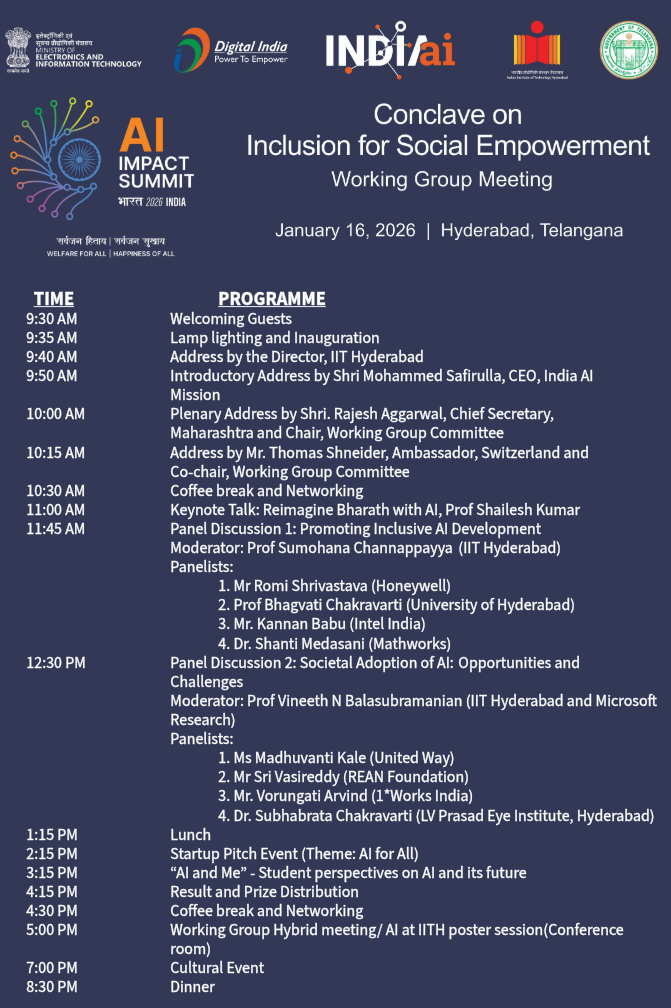
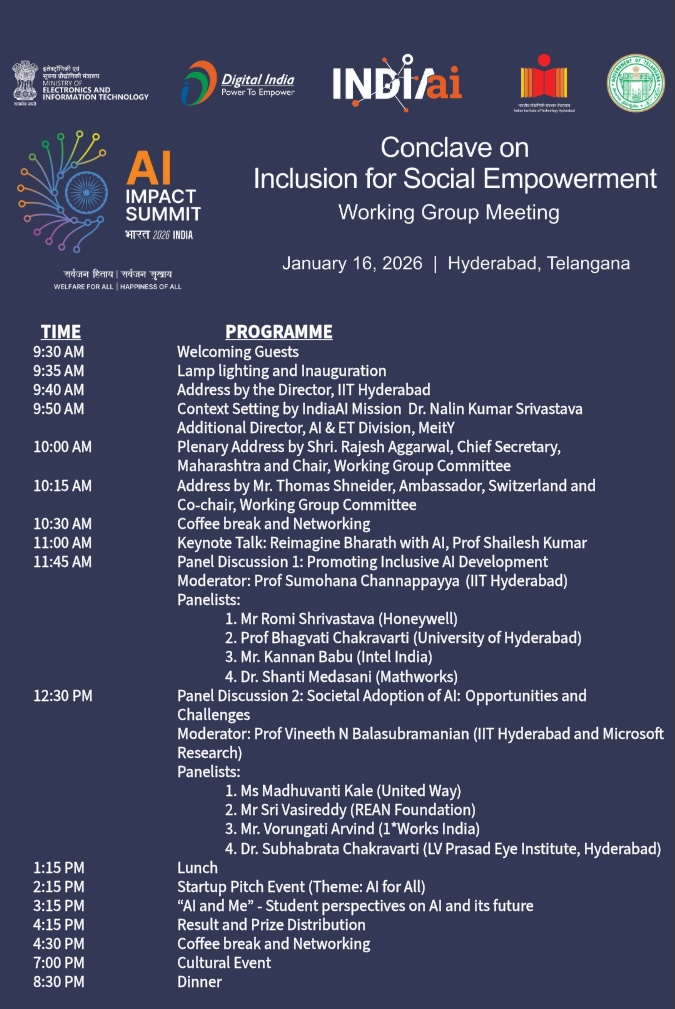
change in event schedule

diff --git a/src/constants.js b/src/constants.js
@@ -17,36 +17,36 @@ export const EventScheduleConstants = [
     id: 4,
     time: "9:50 AM",
     title:
-      "Brief Introduction by Mr. Mohammad Safirulla (CEO, India AI Mission)",
+      "Context Setting by IndiaAI Misson: Address by Dr. Nalin Kumar Srivastava, Additional Director, AI & ET Division, MeitY",
   },
   {
     id: 5,
     time: "10:00 AM",
-    title:
-      "Address by Mr. Thomas Schneider, Ambassador and Co-Director of International Affairs, Switzerland and Co-Chair Working group",
-    description: "Inclusion for Empowerment",
-  },
-  {
-    id: 6,
-    time: "10:10 AM",
-    title: "Plenary Talk by Shri Rajesh Agarwal",
+    title: "Plenary Address by Shri Rajesh Aggarwal",
     hasToggle: true,
     isPlaneryOrKeynoteTalk: true,
     speakerDetails: {
-      name: "Shri Rajesh Agarwal",
+      name: "Shri Rajesh Aggarwal",
       tagLine: "Chief Secretary, Government of Maharashtra",
       profileImage: "/images/rajesh-agarwal.webp",
     },
+  },
+  {
+    id: 6,
+    time: "10:15 AM",
+    title:
+      "Address by Mr. Thomas Schneider, Ambassador, Switzerland and Co-Chair, Working Group Committee",
+    description: "Inclusion for Empowerment",
   },
   { id: 7, time: "10:30 AM", title: "Coffee Break & Networking" },
   {
     id: 8,
     time: "11:00 AM",
-    title: "Keynote Talk by Dr. Shailesh Kumar",
+    title: "Keynote Talk: Reimagine Bharath with AI, Prof. Shailesh Kumar",
     hasToggle: true,
     isPlaneryOrKeynoteTalk: true,
     speakerDetails: {
-      name: "Dr. Shailesh Kumar",
+      name: "Prof. Shailesh Kumar",
       tagLine:
         "Chief Data Scientist, Centre of Excellence in AI/ML, Reliance Jio, Dean of Jio Institute",
       profileImage: "/images/shailesh.jpeg",
@@ -69,10 +69,10 @@ export const EventScheduleConstants = [
     hasToggle: true,
     isPanelDiscussion: true,
   },
-  { id: 11, time: "1:00 PM", title: "Lunch" },
+  { id: 11, time: "1:15 PM", title: "Lunch" },
   {
     id: 12,
-    time: "2:00 PM",
+    time: "2:15 PM",
     title: "Startup Pitch Event",
     description: "Theme: AI for All",
     hasToggle: true,
@@ -81,7 +81,7 @@ export const EventScheduleConstants = [
 
   {
     id: 13,
-    time: "3:00 PM",
+    time: "3:15 PM",
     title: "AI and Me",
     description: "Student Perspectives on AI and its Future",
     hasToggle: true,
@@ -115,8 +115,8 @@ export const EventScheduleConstants = [
       },
     ],
   },
-  { id: 14, time: "4:00 PM", title: "Coffee Break & Networking" },
-  { id: 15, time: "4:30 PM", title: "Results & Closing Session" },
+  { id: 14, time: "4:15 PM", title: "Results and Prize Distribution" },
+  { id: 15, time: "4:30 PM", title: "Coffee Break and Networking" },
   {
     id: 16,
     time: "5:00 PM",
@@ -179,79 +179,89 @@ export const CulturalEventArtists = [
 
 export const PanelDiscussion1Members = {
   moderator: {
-    name: "Sumohana Channappayya",
+    name: "Prof. Sumohana Channappayya",
     profileImage: "/images/panelDiscussion1/sumohana-channappayya.jpg",
+    tagLine: "IIT Hyderabad"
   },
   panelMembers: [
     {
       id: 1,
-      name: "Romi Srivastava",
+      name: "Mr. Romi Srivastava",
       linkendInProfile:
         "https://www.linkedin.com/in/romi-srivastava-3130a730/?originalSubdomain=in",
       profileImage: "/images/panelDiscussion1/romi-srivastava.jpeg",
       bio: "Romi Srivastava is a Lead AI Engineer at Honeywell, specializing in deep learning and computer vision for autonomous navigation and other high-impact applications. Based in Bengaluru, India, Romi brings more than a decade of industrial R&D experience,  complemented by strong academic training in artificial intelligence and visual information systems. His work spans domains such as aerospace, agriculture, medical science, and broader autonomous systems, translating cutting-edge research into real-world products and solutions.",
+      tagLine: "Honeywell"
     },
     {
       id: 2,
-      name: "Swarup Shanti Medasani",
+      name: "Dr. Shanti Medasani",
       linkendInProfile:
         "https://www.linkedin.com/in/swarup-medasani-80b2a713/?originalSubdomain=in",
       profileImage: "/images/panelDiscussion1/swarup-shanti.jpeg",
       bio: "Mr. Swarup Shanti Medasani is Director of Engineering at MathWorks, leading product development teams in the Greater Hyderabad Area, India. With more than two decades of experience spanning research, product engineering, and technology leadership, he has previously served as Chief Technology Officer at Uurmi Systems and as a senior research staff scientist at HRL Laboratories, Malibu, USA. He holds a Ph.D. in Computer Engineering and Computer Science from the University of Missouri-Columbia and brings deep expertise in artificial intelligence and signal processing to his current role.",
+      tagLine: "Mathworks"
     },
     {
       id: 3,
-      name: "Ramia Kannan Babu",
+      name: "Mr. Kannan Babu",
       linkendInProfile:
         "https://www.linkedin.com/in/kannan-babu-ramia-7393649/?originalSubdomain=in",
       profileImage: "/images/panelDiscussion1/ramia-kannan.jpeg",
       bio: "Mr. Ramia Kannan Babu is a Senior Principal Engineer in Edge Computing at Intel Technology India, bringing over 25 years of experience in system architecture, packet processing, and wireless infrastructure.He has served in multiple engineering leadership roles at Intel, including Principal Engineer and System Architect for data plane solutions, following earlier research engineering positions at CDOT and VXL Instruments in Bangalore. Mr. Kannan holds an M.S. in Software Systems from BITS Pilani and a B.E. in Electronics and Communications from Government College of Engineering, Tirunelveli. His expertise spans SoC and embedded systems design, and he is widely recognized within Intel for his technical contributions and mentoring across cross-functional teams.",
+      tagLine: "Intel India"
     },
     {
       id: 4,
-      name: "Chakravarthy Bhagavati",
+      name: "Prof. Bhagavati Chakravarthy",
       homepage: "https://scis.uohyd.ac.in/~chakcs/",
       profileImage: "/images/panelDiscussion1/bhagavati.jpeg",
       bio: "Professor Bhagvati’s research spans Colour Image Processing, Pattern Recognition, Document Analysis, and Deep Learning, with notable contributions to Telugu Optical Character Recognition, where his lab has developed a complete end-to-end OCR system achieving high real-world accuracy. His work beautifully bridges theory and practice, combining insights from vision science, stochastic processes, and modern deep learning. He holds a Ph.D. in Computer Science from Rensselaer Polytechnic Institute, and has been actively involved in teaching and mentoring students across areas such as Programming Languages, Operating Systems, Computer Vision, Numerical Methods, and Deep Learning.",
+      tagLine: "University of Hyderabad"
     },
   ],
 };
 
 export const PanelDiscussion2Members = {
   moderator: {
-    name: "Vineeth N Balasubramanian",
+    name: "Prof. Vineeth N Balasubramanian",
     profileImage: "/images/panelDiscussion2/vineeth-balasubramanian.jpg",
+    tagLine: "IIT Hyderabad and Microsoft Research"
   },
   panelMembers: [
     {
       id: 1,
-      name: "Sri Vasireddy",
+      name: "Mr. Sri Vasireddy",
       linkendInProfile: "https://www.linkedin.com/in/srivasireddy",
       profileImage: "/images/panelDiscussion2/vasireddy.jpg",
       bio: "Mr. Sri Vasireddy is the Co-Founder and Chief Executive Officer of REAN Foundation, a mission-driven non-profit organization focused on improving healthcare access and enabling patient support beyond hospitals, especially for individuals in remote and underserved communities. Through initiatives such as REAN Care, he has been actively involved in promoting solutions that help patients and families manage health needs from home with dignity and continuity of care. With a background that combines leadership, technology, and social impact, Mr. Vasireddy has also contributed to innovation discussions in the health-tech ecosystem, including being listed as a member of the American Heart Association’s Health Tech Advisory Group.",
+      tagLine: "REAN Foundation"
     },
     {
       id: 2,
-      name: "Madhuvanti Kale",
+      name: "Ms. Madhuvanti Kale",
       linkendInProfile:
         "https://www.linkedin.com/in/madhuvanti-kale-phd-16ab43226",
       profileImage: "/images/panelDiscussion2/madhuvanti-kale.png",
       bio: "Dr. Madhuvanti Kale is a sustainability professional with an academic background in agricultural waste valorization. She has over 10 years of academic and industrial research experience in the US, Europe and India. She has led social programs focused on environmental sustainability at a major international non-profit. She recently co-founded Avartan Labs, a startup dedicated to improving the efficiency of solid waste management through socially conscious deployment of AI-ML, together with Prof. Srijith PK and Prof. Vineeth Balasubramanian.",
+      tagLine: "United Way"
     },
     {
       id: 3,
-      name: "Subhabrata Chakrabarti",
+      name: "Dr. Subhabrata Chakrabarti",
       linkendInProfile:
         "https://www.linkedin.com/in/subhabrata-chakrabarti-183078a",
       profileImage: "/images/panelDiscussion2/subhabrata.png",
       bio: "Dr. Subhabrata Chakrabarti is currently the Associate Director of Research at the L V Prasad Eye Institute (LVPEI), Hyderabad. He is a Molecular Geneticist largely trained in India and at the National Eye Institute (NEI), NIH, USA, and has contributed to the understanding of the molecular mechanisms in complex eye diseases. He is a Molecular Geneticist largely trained in India and at the National Eye Institute (NEI), NIH, USA, and has contributed to the understanding of the molecular mechanisms in complex eye diseases. His major work on functional genomics of primary congenital glaucoma (PCG) that affects children in the developing world, has convincingly demonstrated the underlying mechanisms in disease pathogenesis and ocular development. His works have provided evolutionary insights on the geographical structuring and migrations of these disease-associated mutations worldwide.",
+      tagLine: "LV Prasad Eye Institute, Hyderabad"
     },
     {
       id: 4,
-      name: "Voruganti Aravind",
+      name: "Mr. Voruganti Aravind",
       linkendInProfile: "https://www.linkedin.com/in/aravindvoruganti",
       profileImage: "/images/panelDiscussion2/voruganti-aravind.jpg",
       bio: "Voruganti Aravind is a deep tech leader, ecosystem architect, and venture builder working at the intersection of work, intelligence, productivity, and trust in the era of AI and decentralized systems. A seasoned blockchain leader with over 13 years of industry experience, currently serving as Director and Global Vice President. He has led production-grade enterprise blockchain projects across 10+ industry verticals, including supply chain, trade finance, CBDCs, energy, oil and gas, GRC, NFTs, and the educational metaverse.A Blockchain Solution Architect, Product Leader, and Corporate Trainer, he has trained 3,500+ professionals globally, including government officials and fintech leaders across India, Singapore, the US, UK, and the Middle East. He is also the Chair of the Hyperledger Governance, Risk, and Compliance SIG and was recognized among the Top 50 Blockchain Influencers in India (2022).",
+      tagLine: "<p>1<sup>*</sup>Works India</p>"
     },
   ],
 };

diff --git a/src/components/PanelDiscussion.jsx b/src/components/PanelDiscussion.jsx
@@ -1,6 +1,7 @@
 import React from "react";
 import AnimatedSection from "./common/AnimatedSection";
 import { PanelDiscussion1Members, PanelDiscussion2Members } from "../constants";
+import parse from "html-react-parser";
 
 const PanelDiscussion = ({ title }) => {
   const panelDiscussionMembers =
@@ -27,9 +28,14 @@ const PanelDiscussion = ({ title }) => {
                 alt="profileImage"
               />
             </div>
-            <p className="font-bold text-lg">
-              {panelDiscussionMembers?.moderator?.name}
-            </p>
+            <div className="flex flex-col gap-0 items-center">
+              <p className="font-bold text-lg">
+                {panelDiscussionMembers?.moderator?.name}
+              </p>
+              <p className="font-normal text-base">
+                {panelDiscussionMembers?.moderator?.tagLine}
+              </p>
+            </div>
           </div>
         </AnimatedSection>
       </div>
@@ -59,7 +65,12 @@ const PanelDiscussion = ({ title }) => {
                         alt="profileImage"
                       />
                     </div>
-                    <p className="font-bold text-lg">{member?.name}</p>
+                    <div className="flex flex-col gap-0 items-center">
+                      <p className="font-bold text-lg">{member?.name}</p>
+                      <p className="font-normal text-base">
+                        {parse(member?.tagLine)}
+                      </p>
+                    </div>
                   </div>
                   <p>{member?.bio}</p>
                 </div>

diff --git a/src/components/EventSchedule.jsx b/src/components/EventSchedule.jsx
@@ -10,7 +10,7 @@ import StartupPictch from "./StartupPitch";
 import PlaneryTalk from "./PlaneryTalk";
 
 const openAccordionInitialState = {
-  6: true,
+  5: true,
   8: true,
   9: true,
   10: true,
